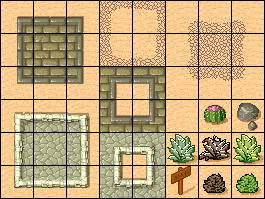
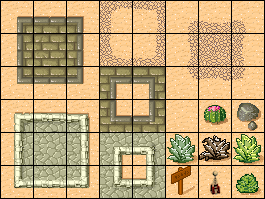
Allow on-the-fly adjustment of pathfinding.  Dynamically place some towers (one after 25 seconds)

Changed region(s): [[0.7547, 0.8442, 0.8755, 0.995]]

diff --git a/Classes/HelloWorldLayer.m b/Classes/HelloWorldLayer.m
@@ -59,6 +59,17 @@
     [self animateCritter: critter];
 }
 
+-(void)placeTowerAtTileCoordinate:(CGPoint)coords
+{
+	[self.background setTileGID:47 at:coords];
+	// need to update the path of all critters
+	for (CCNode *node in _panZoomLayer.children) {
+		if ([node isKindOfClass:[Critter class]]) {
+			[((Critter *)node) updatePath];
+		}
+	}
+}
+
 -(id) init
 {
 	if( (self=[super init])) {
@@ -78,6 +89,16 @@
         critter.position = ccp(0,200);
         [_panZoomLayer addChild:critter]; 
         [critter moveToward:[self positionForTileCoordinate:ccp(49,35)]];
+		
+		[self placeTowerAtTileCoordinate:ccp(48,34)];
+		[self placeTowerAtTileCoordinate:ccp(48,35)];
+		[self placeTowerAtTileCoordinate:ccp(48,36)];
+		dispatch_after(dispatch_time(DISPATCH_TIME_NOW, 25 * NSEC_PER_SEC), dispatch_get_current_queue(), ^{
+			[self placeTowerAtTileCoordinate:ccp(49,36)];
+		});
+//		Tower *tower = [[[Tower alloc] initWithLayer:self] autorelease];
+//		tower.position = ccp(20,200);
+//		[_panZoomLayer addChild:tower];
 
 	}
 	return self;

diff --git a/Classes/Critter.m b/Classes/Critter.m
@@ -86,8 +86,16 @@ static const float kMovingSpeed = 0.4;
 	[super dealloc];
 }
 
-- (void)moveToward:(CGPoint)target
-{	
+- (void)updatePath
+{
+	[spOpenSteps release]; spOpenSteps = nil;
+	[spClosedSteps release]; spClosedSteps = nil;
+	[shortestPath release]; shortestPath = nil;
+	[self moveToward:_target];
+}
+
+- (void)moveTowardImpl:(CGPoint)target
+{
 	// Start by stoping the current moving action
     if (currentStepAction) {
         self.pendingMove = [NSValue valueWithCGPoint:target];
@@ -203,6 +211,12 @@ static const float kMovingSpeed = 0.4;
 		}
 		
 	} while ([self.spOpenSteps count] > 0);
+}
+
+-(void)moveToward:(CGPoint)target
+{
+	_target = target;
+	[self moveTowardImpl:target];
 }
 
 // Insert a path step (ShortestPathStep) in the ordered open steps list (spOpenSteps)

diff --git a/Classes/Critter.h b/Classes/Critter.h
@@ -20,9 +20,11 @@
     NSMutableArray *shortestPath;
 	CCAction *currentStepAction;
     NSValue *pendingMove;
+	CGPoint _target;
 }
 
 - (id)initWithLayer:(HelloWorldLayer *)layer;
 - (void)moveToward:(CGPoint)target;
+- (void)updatePath;
 
 @end
